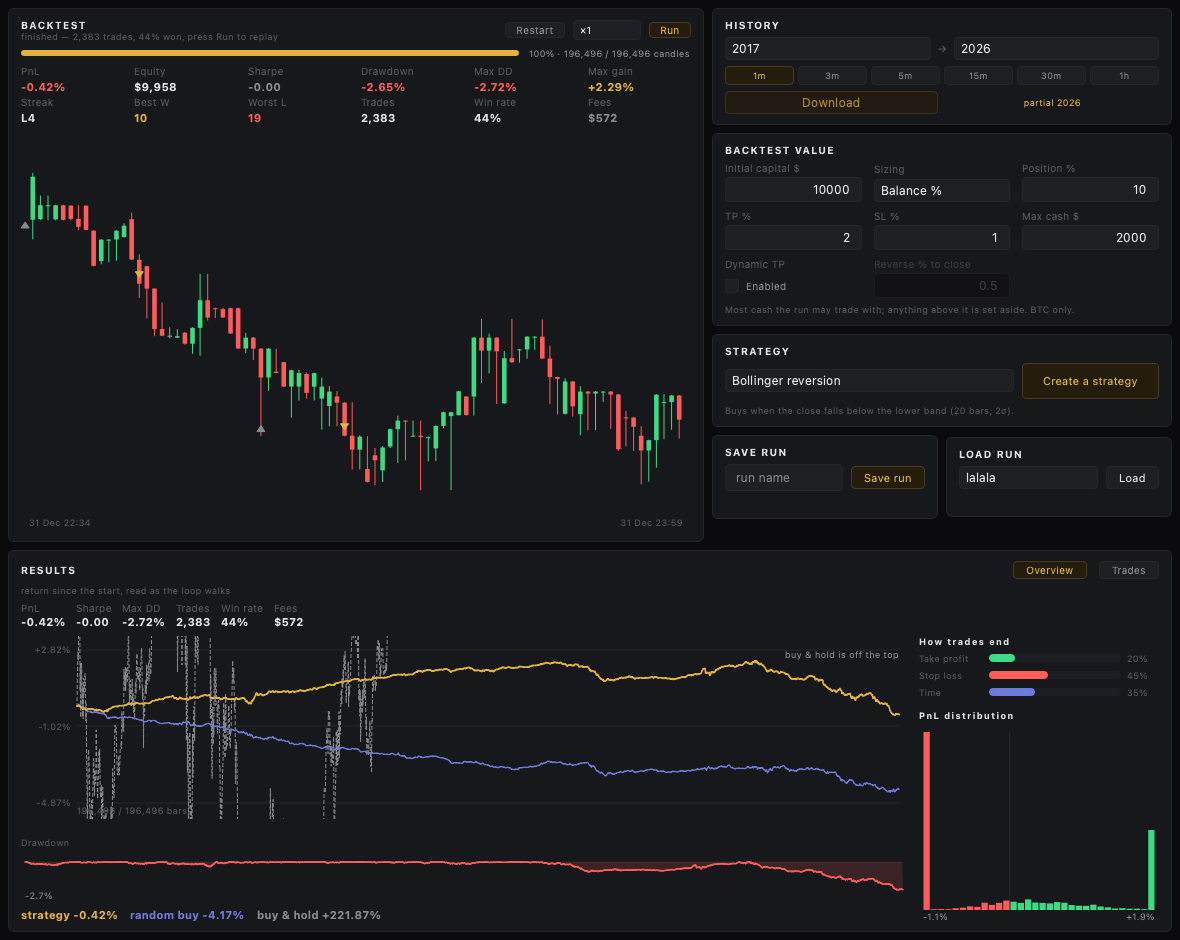
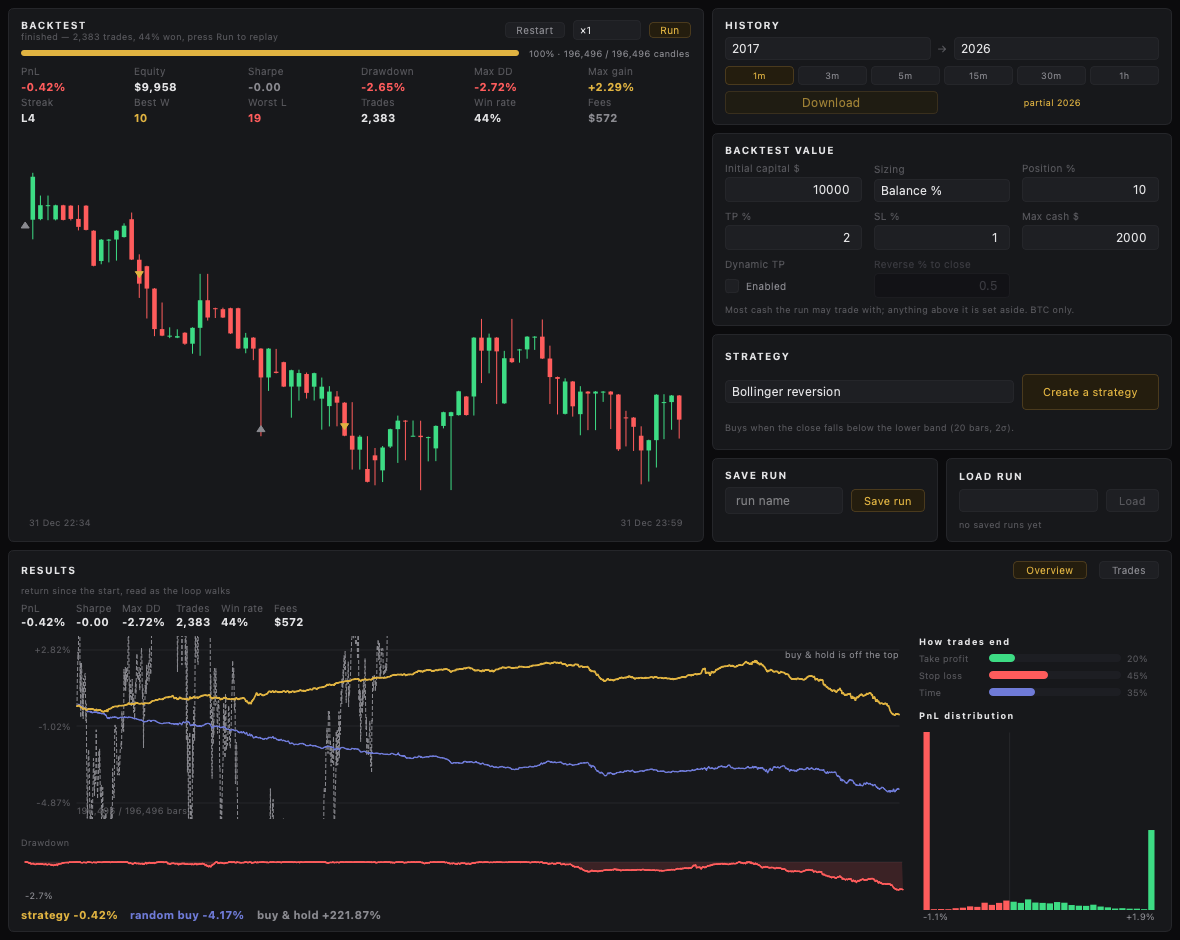
Let the backtest's right column fill its height, with no scroll
The tiles share the column's whole height — the inputs get the largest
share, the small run tiles the least — so they always fill it and there is
nothing to scroll.

diff --git a/src/lalala/strat_window.py b/src/lalala/strat_window.py
@@ -13,10 +13,8 @@ from __future__ import annotations
 
 from PySide6.QtCore import Qt
 from PySide6.QtWidgets import (
-    QFrame,
     QHBoxLayout,
     QMainWindow,
-    QScrollArea,
     QSizePolicy,
     QSplitter,
     QVBoxLayout,
@@ -59,19 +57,9 @@ class StratWindow(QMainWindow):
 
         self.left = PlaybackTile(self.splitter)
 
-        # The right side is a narrow column of tiles that scrolls when they do
-        # not all fit, so every tile keeps the height its content needs.
-        self.right_scroll = QScrollArea(self.splitter)
-        self.right_scroll.setObjectName("stratColumnScroll")
-        self.right_scroll.setWidgetResizable(True)
-        self.right_scroll.setFrameShape(QFrame.Shape.NoFrame)
-        self.right_scroll.setHorizontalScrollBarPolicy(
-            Qt.ScrollBarPolicy.ScrollBarAlwaysOff
-        )
-        self.right_scroll.setMinimumWidth(360)
-        self.right_scroll.setMaximumWidth(480)
-
-        self.right = QWidget()
+        # The right side is a narrow column of tiles; they share the height so
+        # they always fill it, with no scrolling.
+        self.right = QWidget(self.splitter)
         self.right.setObjectName("stratColumn")
         column = QVBoxLayout(self.right)
         column.setContentsMargins(0, 0, 0, 0)
@@ -93,7 +81,6 @@ class StratWindow(QMainWindow):
         runs_layout.addWidget(self.save_run, 1)
         runs_layout.addWidget(self.load_run, 1)
         column.addWidget(runs_row)
-        column.addStretch(1)
         for tile in (
             self.download,
             self.params,
@@ -102,12 +89,16 @@ class StratWindow(QMainWindow):
             self.load_run,
         ):
             tile.setSizePolicy(
-                QSizePolicy.Policy.Preferred, QSizePolicy.Policy.Maximum
+                QSizePolicy.Policy.Preferred, QSizePolicy.Policy.Expanding
             )
-        self.right_scroll.setWidget(self.right)
+        # Share the slack: the inputs get the most, the small tiles the least.
+        for index, weight in enumerate((3, 4, 3, 2)):
+            column.setStretch(index, weight)
+        self.right.setMinimumWidth(360)
+        self.right.setMaximumWidth(480)
 
         self.splitter.addWidget(self.left)
-        self.splitter.addWidget(self.right_scroll)
+        self.splitter.addWidget(self.right)
         self.splitter.setStretchFactor(0, 1)
         self.splitter.setStretchFactor(1, 0)
         self.splitter.setSizes([700, 460])

diff --git a/tests/test_strat.py b/tests/test_strat.py
@@ -94,8 +94,7 @@ def test_the_top_row_is_the_run_and_its_inputs(app: QApplication, window) -> Non
     assert window.splitter.count() == 2
     assert window.splitter.orientation() == Qt.Orientation.Horizontal
     assert window.splitter.widget(0) is window.left
-    assert window.splitter.widget(1) is window.right_scroll
-    assert window.right_scroll.widget() is window.right
+    assert window.splitter.widget(1) is window.right
     app.processEvents()
     left, right = window.splitter.sizes()
     assert left > right  # the run takes the slack; the column stays narrow
@@ -114,12 +113,14 @@ def test_the_right_column_stacks_five_tiles(app: QApplication, window) -> None:
         assert isinstance(tile, Card)
 
 
-def test_the_input_tiles_fit_their_content(app: QApplication, window) -> None:
+def test_the_tiles_fill_the_column_without_scrolling(
+    app: QApplication, window
+) -> None:
     app.processEvents()
-    # The inputs keep to the height their content needs…
-    for tile in (window.download, window.params, window.strategy):
-        assert tile.height() <= tile.sizeHint().height() + 12
-    # And the results take the whole bottom row.
+    # The tiles share the whole column, so nothing is left over to scroll.
+    tiles = (window.download, window.params, window.strategy, window.save_run)
+    total = sum(tile.height() for tile in tiles) + 3 * CARD_GAP
+    assert total == pytest.approx(window.right.height(), abs=12)
     assert window.results.height() > window.params.height()
 
 

diff --git a/src/lalala/theme.py b/src/lalala/theme.py
@@ -98,9 +98,7 @@ QSplitter#formulaSplit::handle:vertical {{
 /* Plain containers inside a card must not paint the canvas colour. */
 #resolutionPicker, #paramsGrid, #entryPages, #entryPage, #resultsPage,
 #formulaBuilder, #formulaCanvas, #stripArea, #stripHolder,
-#paletteInner, #paletteBlocks, #dropZone,
-#stratColumnScroll, #stratColumn,
-#stratColumnScroll > QWidget > QWidget {{
+#paletteInner, #paletteBlocks, #dropZone, #stratColumn {{
     background-color: transparent;
 }}
 

diff --git a/README.md b/README.md
@@ -761,9 +761,9 @@ and are clamped on the way in — an unknown `sizing` mode falls back to
 `balance`. Numeric fields take a dot as the decimal mark whatever the system
 locale, and are bounded so a percentage cannot exceed the whole book.
 
-Both the history tile and the parameters tile keep only the height their
-content needs; the strategy tile follows them, and the spare height is left
-empty. The results tile spans the window's full width below.
+The right column's tiles **share its whole height** — the inputs take the most,
+the small tiles the least — so they always fill it and never scroll. The
+results tile spans the window's full width below.
 
 Decided and hard-coded for the run (no switches in the UI): fees and slippage
 are fixed, one position is held at a time, and a trade is refused across a
